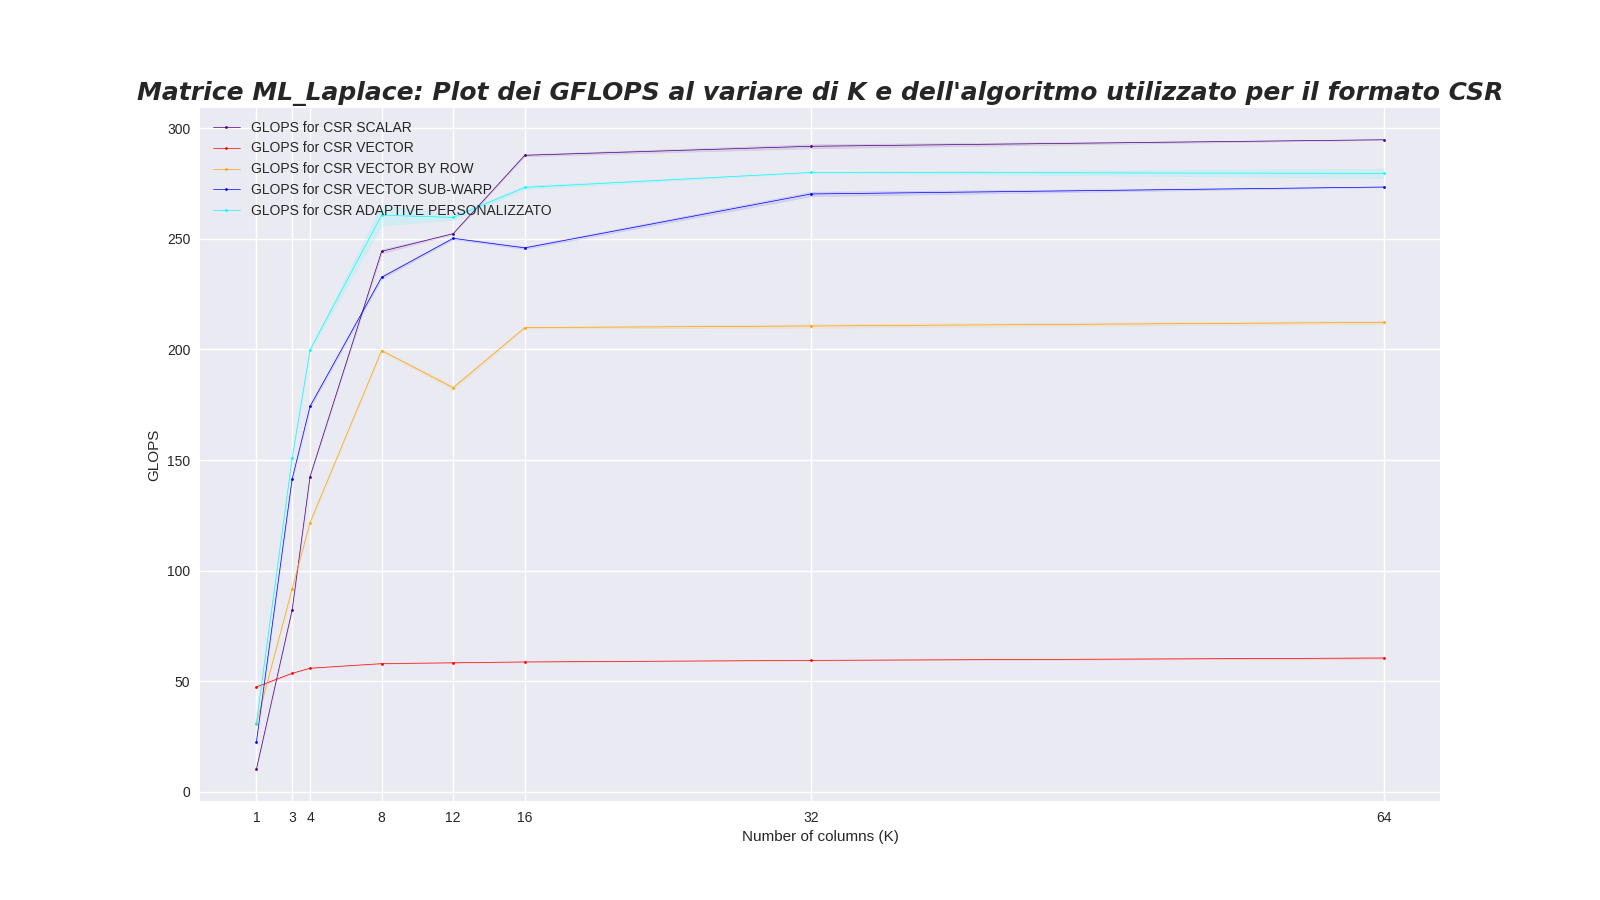
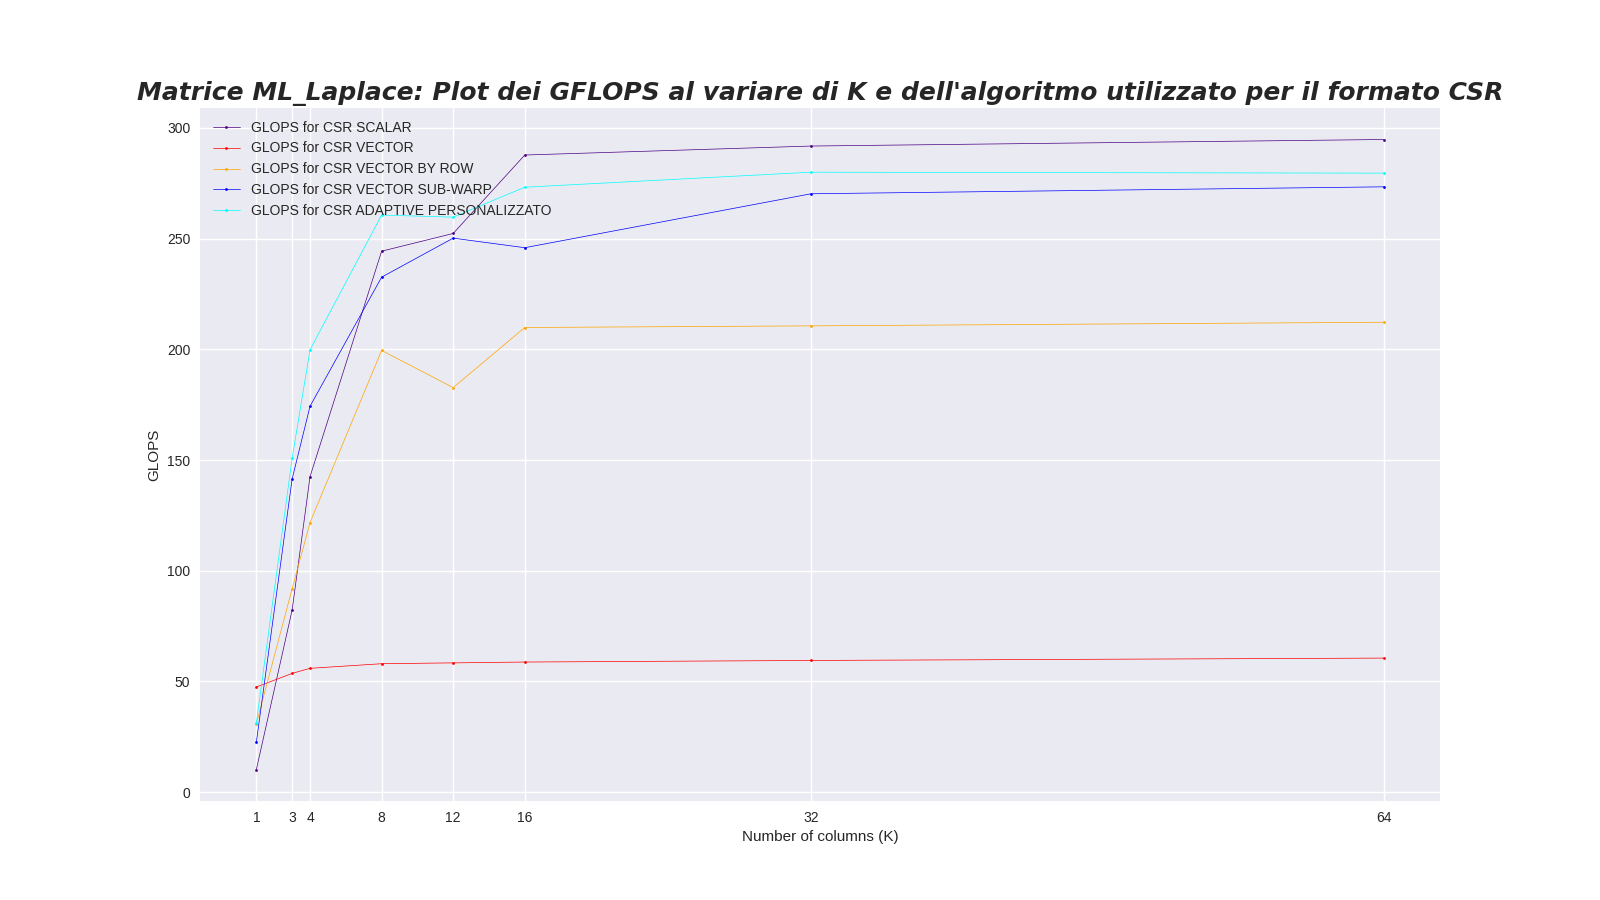
Versione grafici migliorata

diff --git a/plots/plot-performance_GPU_cflush.py b/plots/plot-performance_GPU_cflush.py
@@ -108,39 +108,19 @@ def print_all_results_CSR():
 
     ax.plot(K, mean_scalar, marker='o', markersize=2,
             label="GLOPS for CSR SCALAR", linewidth=0.5, color='indigo')
-    ci = stats.t.interval(0.995, n-1, loc=mean_scalar,
-                          scale=std_scalar/np.sqrt(n))
-    ax.fill_between(K, ci[0], ci[1],
-                    color='indigo', alpha=0.1)
 
     ax.plot(K, mean_vector, marker='o', markersize=2,
             label="GLOPS for CSR VECTOR", linewidth=0.5, color='red')
-    ci = stats.t.interval(0.995, n-1, loc=mean_vector,
-                          scale=std_vector/np.sqrt(n))
-    ax.fill_between(K, ci[0], ci[1],
-                    color='red', alpha=0.1)
 
     ax.plot(K, mean_vector_by_row, marker='o', markersize=2,
             label="GLOPS for CSR VECTOR BY ROW", linewidth=0.5, color='orange')
-    ci = stats.t.interval(0.995, n-1, loc=mean_vector_by_row,
-                          scale=std_vector_by_row/np.sqrt(n))
-    ax.fill_between(K, ci[0], ci[1],
-                    color='orange', alpha=0.1)
 
     ax.plot(K, mean_vector_sw, marker='o', markersize=2,
             label="GLOPS for CSR VECTOR SUB-WARP", linewidth=0.5, color='blue')
-    ci = stats.t.interval(0.995, n-1, loc=mean_vector_sw,
-                          scale=std_vector_sw/np.sqrt(n))
 
-    ax.fill_between(K, ci[0], ci[1],
-                    color='blue', alpha=0.1)
 
     ax.plot(K, mean_adaptive_p, marker='o', markersize=2,
             label="GLOPS for CSR ADAPTIVE PERSONALIZZATO", linewidth=0.5, color='cyan')
-    ci = stats.t.interval(0.995, n-1, loc=mean_adaptive_p,
-                          scale=std_adaptive_p/np.sqrt(n))
-    ax.fill_between(K, ci[0], ci[1],
-                    color='cyan', alpha=0.1)
 
     ax.legend(loc='upper left', shadow=True, fontsize=10)
 
